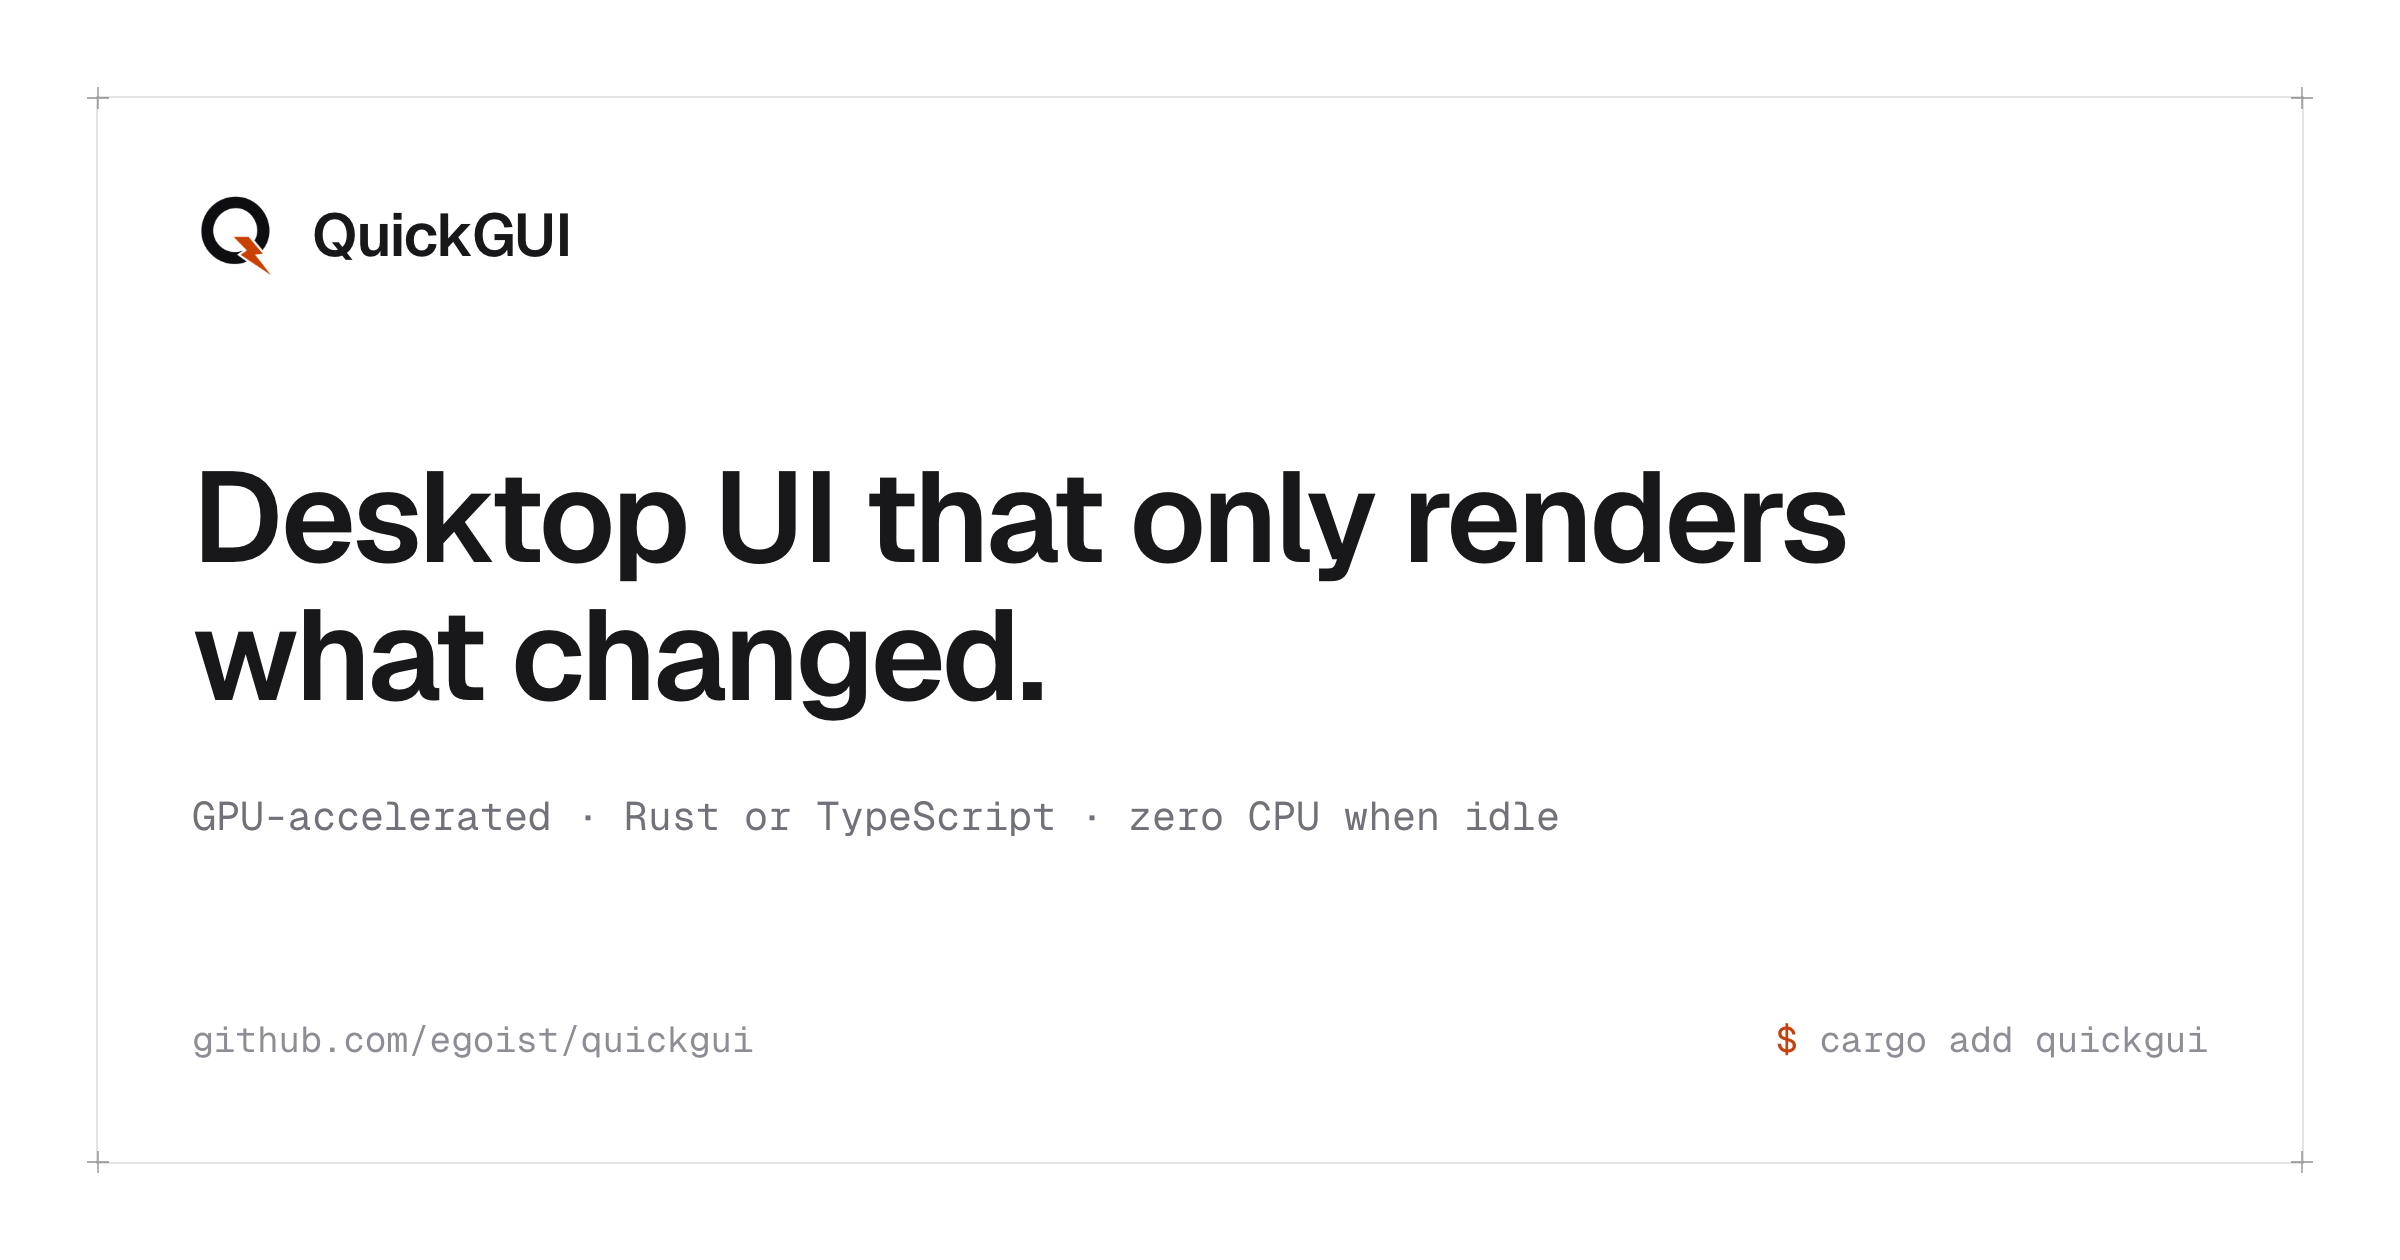
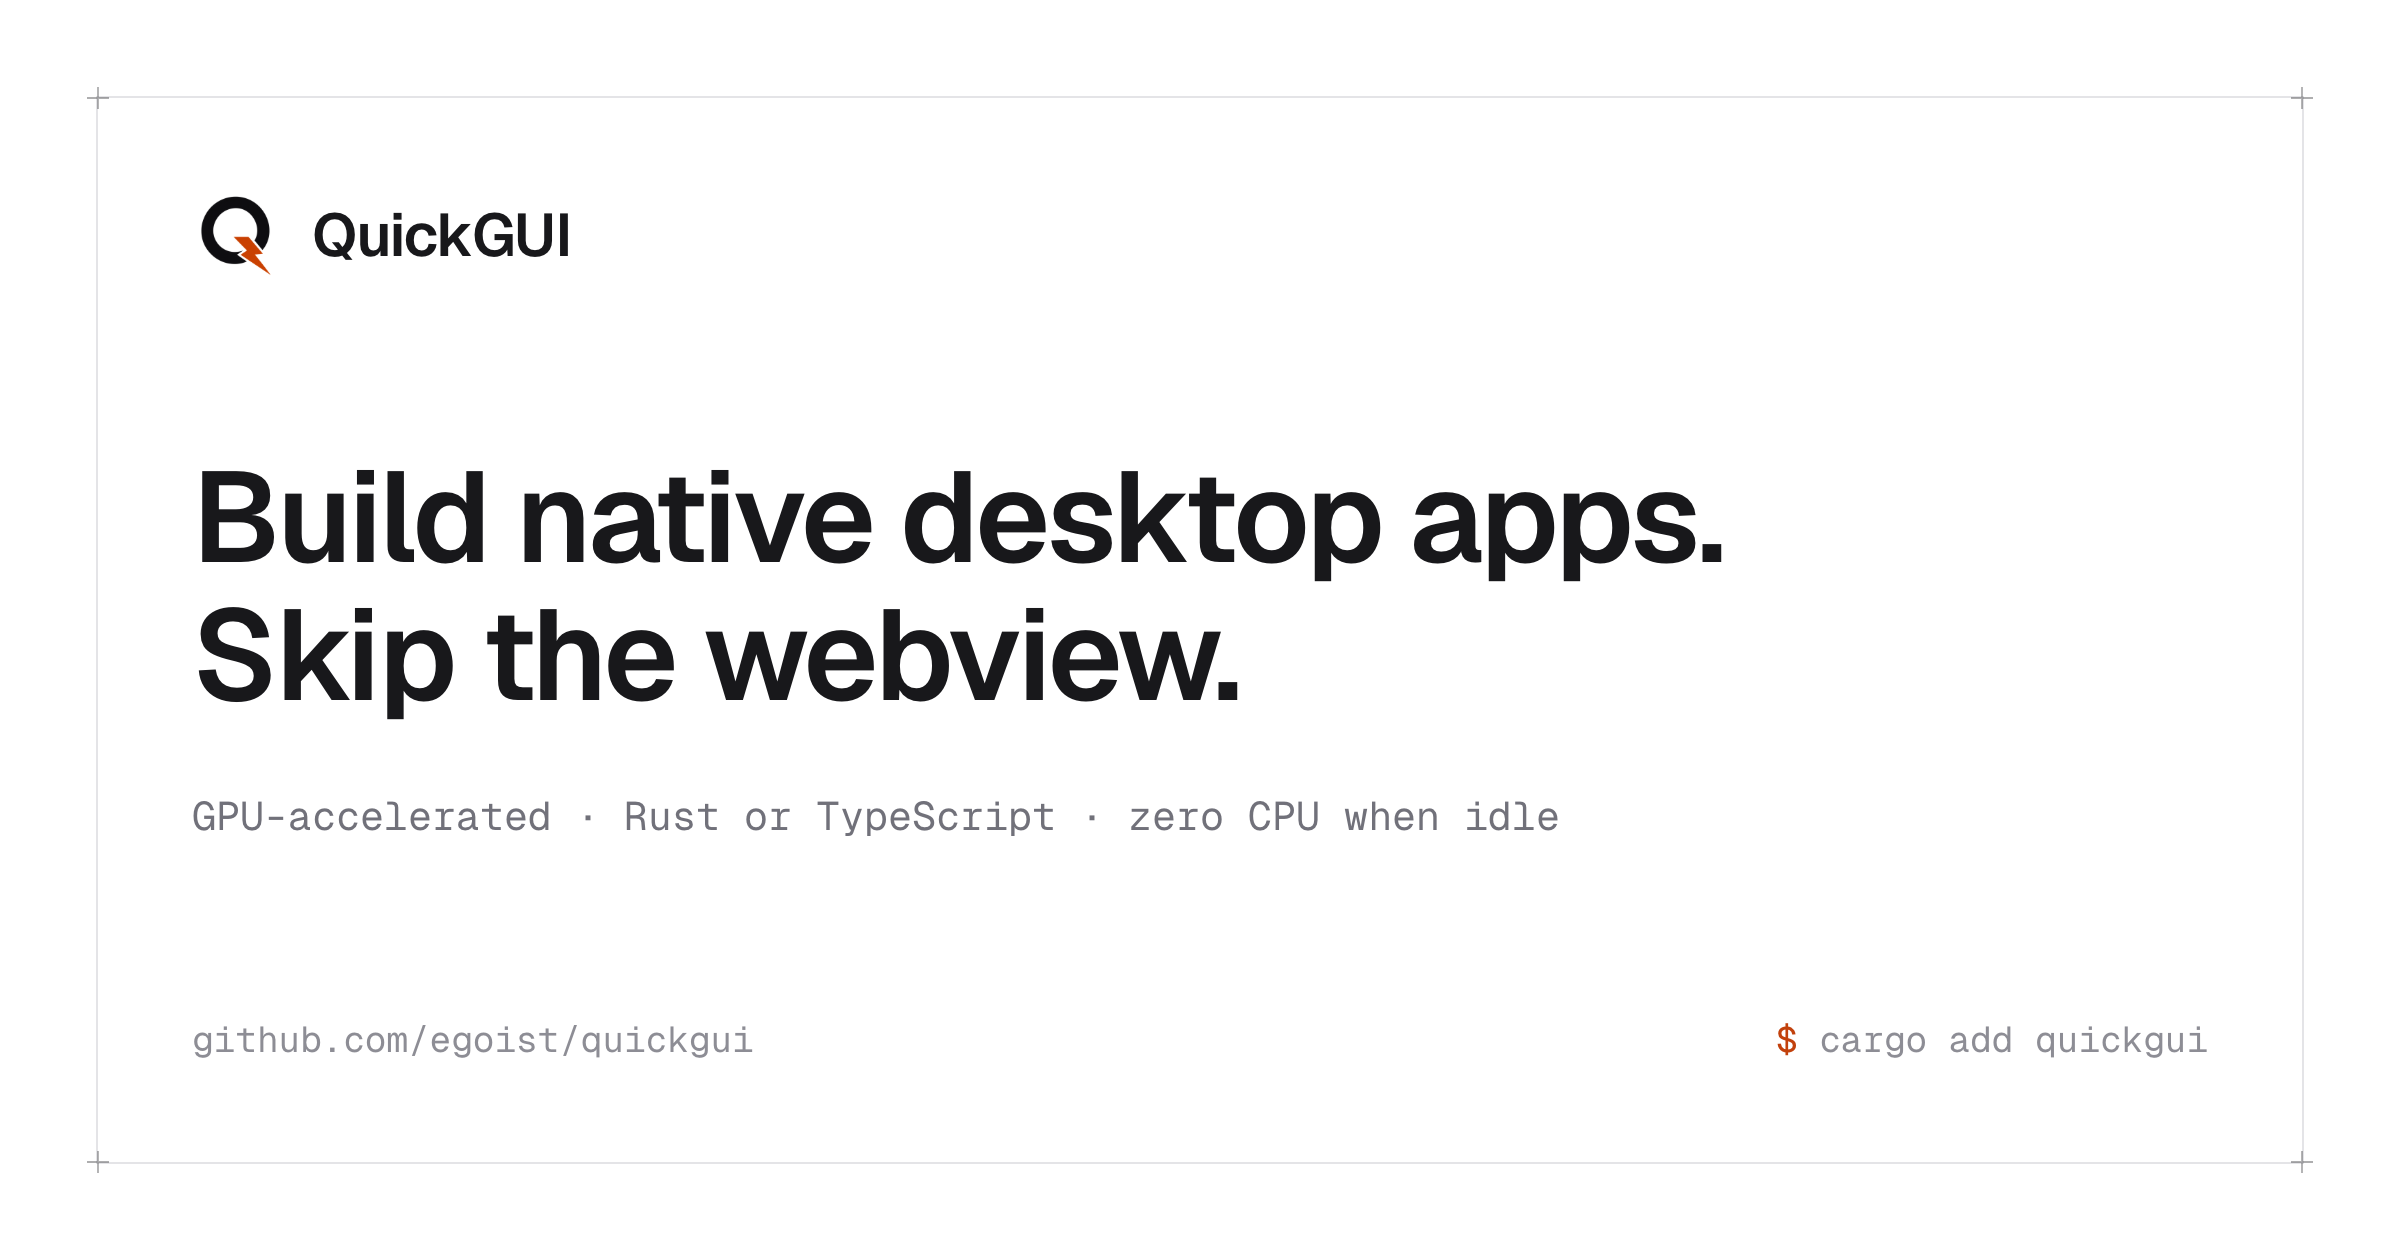
tweaks

Changed region(s): [[0.0625, 0.3714, 0.7812, 0.5881]]

diff --git a/website/src/i18n/messages/ja.ts b/website/src/i18n/messages/ja.ts
@@ -2,9 +2,9 @@ import type { en } from './en'
 
 export const ja: typeof en = {
   meta: {
-    title: 'QuickGUI — 変わった部分だけを描画するデスクトップ UI。',
+    title: 'QuickGUI — ネイティブデスクトップアプリを作る。WebView はいらない',
     description:
-      'QuickGUI は Rust または TypeScript でネイティブデスクトップアプリを作る GPU アクセラレーション GUI フレームワーク。見慣れた Flexbox / Grid レイアウト、ちゃんと使えるテキスト、標準のアクセシビリティ——アイドル時は CPU ゼロ。',
+      'QuickGUI は Rust または TypeScript でネイティブデスクトップアプリを作る GPU アクセラレーション GUI フレームワーク。見慣れた Flexbox / Grid レイアウト、ちゃんと使えるテキスト、標準のアクセシビリティ——アイドル時は CPU ゼロ',
   },
   common: {
     skipToContent: 'コンテンツへスキップ',
@@ -21,66 +21,67 @@ export const ja: typeof en = {
   },
   hero: {
     badge: 'v{{version}} crates.io で公開中',
-    title: '変わった部分だけを、描画する。',
-    sub: 'Rust または TypeScript でネイティブアプリを作る GPU アクセラレーション GUI フレームワーク。見慣れたレイアウト、ちゃんと使えるテキスト、標準のアクセシビリティ——アプリがアイドルなら CPU はゼロ。',
+    titleLine1: 'ネイティブデスクトップアプリを作る',
+    titleLine2: 'WebView はいらない',
+    sub: 'Rust または TypeScript でネイティブアプリを作る GPU アクセラレーション GUI フレームワーク。見慣れたレイアウト、ちゃんと使えるテキスト、標準のアクセシビリティ——アプリがアイドルなら CPU はゼロ',
   },
   features: {
-    title: 'デスクトップアプリに必要なもの、ぜんぶ。',
+    title: 'デスクトップアプリに必要なもの、ぜんぶ',
     items: {
       idle: {
         title: 'アイドル時は CPU ゼロ',
-        body: '画面に変化がなければ、何も動きません。アイドルウィンドウはフレームを描かず、バッテリーも消費しない。',
+        body: '画面に変化がなければ、何も動きません。アイドルウィンドウはフレームを描かず、バッテリーも消費しない',
       },
       fast: {
         title: '最初から速い',
-        body: '描画は GPU 上で行われ、ウィンドウの変わった部分だけが再描画されます。',
+        body: '描画は GPU 上で行われ、ウィンドウの変わった部分だけが再描画されます',
       },
       layout: {
         title: '見慣れたレイアウト',
-        body: 'Flexbox と CSS Grid、Tailwind 風のショートハンド付き。Web ページを組めるなら、ウィンドウも組めます。',
+        body: 'Flexbox と CSS Grid、Tailwind 風のショートハンド付き。Web ページを組めるなら、ウィンドウも組めます',
       },
       components: {
         title: 'コンポーネント同梱',
-        body: 'アクセシブルでスタイルなしのコンポーネントを多数同梱——メニュー、ダイアログ、ポップオーバー、select、combobox、タブ、テーブル、ツリー。自由に仕上げられます。',
+        body: 'アクセシブルでスタイルなしのコンポーネントを多数同梱——メニュー、ダイアログ、ポップオーバー、select、combobox、タブ、テーブル、ツリー。自由に仕上げられます',
       },
       text: {
         title: 'テキストがちゃんと使える',
-        body: '選択、編集、アンドゥ、IME、絵文字、右から左へ書く言語——どのネイティブアプリとも同じ挙動。',
+        body: '選択、編集、アンドゥ、IME、絵文字、右から左へ書く言語——どのネイティブアプリとも同じ挙動',
       },
       a11y: {
         title: '標準でアクセシブル',
-        body: 'スクリーンリーダーには本物のボタン・リスト・テキストが見えます。追加コードは不要。',
+        body: 'スクリーンリーダーには本物のボタン・リスト・テキストが見えます。追加コードは不要',
       },
       lists: {
         title: 'どんなサイズでも滑らか',
-        body: '100 万行のテーブルやリストも、フレーム落ちなくスクロール。',
+        body: '100 万行のテーブルやリストも、フレーム落ちなくスクロール',
       },
       native: {
         title: '本物のネイティブ',
-        body: '本物のウィンドウ、ネイティブメニュー、ダイアログ、トレイアイコン、通知——ブラウザの着ぐるみではありません。',
+        body: '本物のウィンドウ、ネイティブメニュー、ダイアログ、トレイアイコン、通知——ブラウザの着ぐるみではありません',
       },
       cli: {
         title: 'CLI ひとつで開発から配布まで',
-        body: 'quickgui dev は編集しながら実行、quickgui build は署名済みでインストール可能なリリースを出力します。',
+        body: 'quickgui dev は編集しながら実行、quickgui build は署名済みでインストール可能なリリースを出力します',
       },
     },
   },
   code: {
-    title: 'Rust でも、TypeScript でも。',
-    lead: '好きな方でどうぞ——どちらも同じネイティブアプリになります。webview はありません。',
+    title: 'Rust でも、TypeScript でも',
+    lead: '好きな方でどうぞ——どちらも同じネイティブアプリになります。webview はありません',
   },
   quickstart: {
-    title: '1 分ではじめる。',
+    title: '1 分ではじめる',
     rust: {
       addCrate: 'クレートを追加',
       write: 'ビューを書く',
-      writeBody: '上のカウンターがそのまま完全な main.rs です——コピーするだけ。',
+      writeBody: '上のカウンターがそのまま完全な main.rs です——コピーするだけ',
       run: '実行',
     },
     solid: {
       create: 'アプリを作成',
       ship: '出荷する',
-      note: '本物の署名済み・自己完結アプリが手に入ります。インストーラー付き。',
+      note: '本物の署名済み・自己完結アプリが手に入ります。インストーラー付き',
     },
   },
   platforms: {
@@ -88,8 +89,8 @@ export const ja: typeof en = {
     soon: '開発中',
   },
   cta: {
-    title: 'ネイティブなものを作ろう。',
-    body: 'ビューを書いて、本物のアプリを出荷——アイドルウィンドウは本当にアイドルに。',
+    title: 'ネイティブなものを作ろう',
+    body: 'ビューを書いて、本物のアプリを出荷——アイドルウィンドウは本当にアイドルに',
     docs: 'ドキュメントを読む',
     star: 'GitHub でスターする',
   },

diff --git a/website/src/i18n/messages/zh.ts b/website/src/i18n/messages/zh.ts
@@ -2,9 +2,9 @@ import type { en } from './en'
 
 export const zh: typeof en = {
   meta: {
-    title: 'QuickGUI — 只渲染变化部分的桌面 UI。',
+    title: 'QuickGUI — 构建原生桌面应用，告别 WebView',
     description:
-      'QuickGUI 是 GPU 加速的 GUI 框架,用 Rust 或 TypeScript 构建原生桌面应用。熟悉的 Flexbox 与 Grid 布局、真正好用的文本、内置无障碍——应用空闲时零 CPU 占用。',
+      'QuickGUI 是 GPU 加速的 GUI 框架, 用 Rust 或 TypeScript 构建原生桌面应用。熟悉的 Flexbox 与 Grid 布局、真正好用的文本、内置无障碍——应用空闲时零 CPU 占用',
   },
   common: {
     skipToContent: '跳到正文',
@@ -21,66 +21,67 @@ export const zh: typeof en = {
   },
   hero: {
     badge: 'v{{version}} 已发布至 crates.io',
-    title: '只渲染变化部分的桌面 UI。',
-    sub: '用 Rust 或 TypeScript 构建原生桌面应用的 GPU 加速 GUI 框架。熟悉的布局、真正好用的文本、内置无障碍——应用空闲时零 CPU 占用。',
+    titleLine1: '构建原生桌面应用，',
+    titleLine2: '告别 WebView',
+    sub: '用 Rust 或 TypeScript 构建原生桌面应用的 GPU 加速 GUI 框架。熟悉的布局、真正好用的文本、内置无障碍——应用空闲时零 CPU 占用',
   },
   features: {
-    title: '桌面应用需要的,都在这里。',
+    title: '桌面应用需要的, 都在这里',
     items: {
       idle: {
         title: '空闲时零 CPU',
-        body: '屏幕上没有变化,就什么都不运行。空闲窗口不绘制任何帧,也不耗电。',
+        body: '屏幕上没有变化, 就什么都不运行。空闲窗口不绘制任何帧, 也不耗电',
       },
       fast: {
         title: '默认就快',
-        body: '渲染在 GPU 上进行,并且只重绘窗口中发生变化的部分。',
+        body: '渲染在 GPU 上进行, 并且只重绘窗口中发生变化的部分',
       },
       layout: {
         title: '你已熟悉的布局',
-        body: 'Flexbox 与 CSS Grid,外加 Tailwind 风格的简写。会排网页,就会排窗口。',
+        body: 'Flexbox 与 CSS Grid, 外加 Tailwind 风格的简写。会排网页, 就会排窗口',
       },
       components: {
         title: '组件开箱即用',
-        body: '一大批可访问的无样式组件——菜单、对话框、弹出层、select、combobox、标签页、表格、树——随你定制。',
+        body: '一大批可访问的无样式组件——菜单、对话框、弹出层、select、combobox、标签页、表格、树——随你定制',
       },
       text: {
         title: '文本真正好用',
-        body: '选择、编辑、撤销、输入法、emoji、从右到左文字,表现与所有原生应用一致。',
+        body: '选择、编辑、撤销、输入法、emoji、从右到左文字, 表现与所有原生应用一致',
       },
       a11y: {
         title: '默认无障碍',
-        body: '屏幕阅读器看到的是真实的按钮、列表和文本,无需额外代码。',
+        body: '屏幕阅读器看到的是真实的按钮、列表和文本, 无需额外代码',
       },
       lists: {
         title: '再大也流畅',
-        body: '百万行的表格与列表,滚动不掉帧。',
+        body: '百万行的表格与列表, 滚动不掉帧',
       },
       native: {
-        title: '原生,而且是真原生',
-        body: '真实窗口、原生菜单、对话框、托盘图标与系统通知——不是套壳浏览器。',
+        title: '原生, 而且是真原生',
+        body: '真实窗口、原生菜单、对话框、托盘图标与系统通知——不是套壳浏览器',
       },
       cli: {
-        title: '一个 CLI,从开发到发布',
-        body: 'quickgui dev 边改边跑;quickgui build 直接产出已签名、可安装的发布版本。',
+        title: '一个 CLI, 从开发到发布',
+        body: 'quickgui dev 边改边跑;quickgui build 直接产出已签名、可安装的发布版本',
       },
     },
   },
   code: {
-    title: '用 Rust 或 TypeScript 来写。',
-    lead: '想用哪个都行——产出的是同一个原生应用,而且没有 webview。',
+    title: '用 Rust 或 TypeScript 来写',
+    lead: '想用哪个都行——产出的是同一个原生应用, 而且没有 webview',
   },
   quickstart: {
-    title: '一分钟上手。',
+    title: '一分钟上手',
     rust: {
       addCrate: '添加 crate',
       write: '写一个视图',
-      writeBody: '上面的计数器就是完整的 main.rs——直接复制进来。',
+      writeBody: '上面的计数器就是完整的 main.rs——直接复制进来',
       run: '运行',
     },
     solid: {
       create: '创建应用',
       ship: '发布',
-      note: '你会得到一个真实、已签名、自包含的应用,连安装包都有。',
+      note: '你会得到一个真实、已签名、自包含的应用, 连安装包都有',
     },
   },
   platforms: {
@@ -88,8 +89,8 @@ export const zh: typeof en = {
     soon: '开发中',
   },
   cta: {
-    title: '做点原生的东西。',
-    body: '写一个视图,发布一个真正的应用——让空闲窗口真正空闲。',
+    title: '做点原生的东西',
+    body: '写一个视图, 发布一个真正的应用——让空闲窗口真正空闲',
     docs: '阅读文档',
     star: '在 GitHub 加星',
   },

diff --git a/website/src/i18n/messages/en.ts b/website/src/i18n/messages/en.ts
@@ -1,6 +1,6 @@
 export const en = {
   meta: {
-    title: 'QuickGUI — Desktop UI that only renders what changed.',
+    title: 'QuickGUI — Build native desktop apps. Skip the webview.',
     description:
       'QuickGUI is a GPU-accelerated GUI framework for building native desktop apps in Rust or TypeScript. Familiar Flexbox and Grid layout, real text, built-in accessibility — and zero CPU while your app is idle.',
   },
@@ -19,7 +19,8 @@ export const en = {
   },
   hero: {
     badge: 'v{{version}} on crates.io',
-    title: 'Desktop UI that only renders what changed.',
+    titleLine1: 'Build native desktop apps.',
+    titleLine2: 'Skip the webview.',
     sub: 'A GPU-accelerated GUI framework for native desktop apps, in Rust or TypeScript. Familiar layout, real text, built-in accessibility — and zero CPU while your app is idle.',
   },
   features: {

diff --git a/website/src/components/sections/hero.tsx b/website/src/components/sections/hero.tsx
@@ -22,8 +22,9 @@ export function Hero({ stats }: { stats: RepoStats }) {
           <span className="i-lucide-arrow-up-right size-3" aria-hidden />
         </a>
 
-        <h1 className="animate-fade-up mt-8 max-w-4xl text-5xl leading-[1.08] font-semibold tracking-tight text-balance [animation-delay:60ms] sm:text-6xl">
-          {t('hero.title')}
+        <h1 className="animate-fade-up mt-8 max-w-4xl text-5xl leading-[1.08] font-semibold tracking-tight text-balance [animation-delay:60ms] lg:text-6xl">
+          <span className="block">{t('hero.titleLine1')}</span>
+          <span className="block">{t('hero.titleLine2')}</span>
         </h1>
 
         <p className="animate-fade-up mt-6 max-w-2xl text-base leading-relaxed text-muted-foreground [animation-delay:120ms] sm:text-lg">

diff --git a/website/src/routes/og.tsx b/website/src/routes/og.tsx
@@ -31,7 +31,7 @@ export default function OgCard() {
 
       <div className="relative">
         <h1 className="max-w-4xl text-[64px] leading-[1.08] font-semibold tracking-tight">
-          Desktop UI that only renders what changed.
+          Build native desktop apps. Skip the webview.
         </h1>
         <p className="mt-8 font-mono text-xl text-muted-foreground">
           GPU-accelerated · Rust or TypeScript · zero CPU when idle

diff --git a/website/src/lib/site.ts b/website/src/lib/site.ts
@@ -1,6 +1,6 @@
 export const site = {
   name: 'QuickGUI',
-  tagline: 'Desktop UI that only renders what changed.',
+  tagline: 'Build native desktop apps. Skip the webview.',
   description:
     'QuickGUI is a GPU-accelerated GUI framework for building native desktop apps in Rust or TypeScript. Familiar Flexbox and Grid layout, real text, built-in accessibility — and zero CPU while your app is idle.',
   repo: 'egoist/quickgui',
